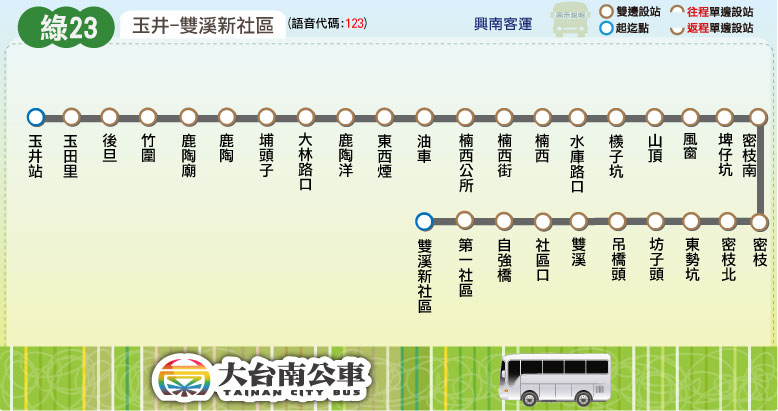
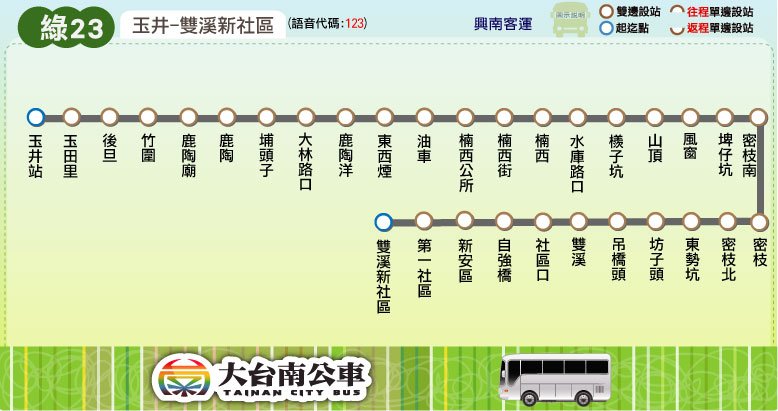
更新時刻表：黃1、黃6、黃12、黃14-1；新增站點：綠23

diff --git a/route/fare_and_time/yellow_12.js b/route/fare_and_time/yellow_12.js
@@ -1,11 +1,11 @@
 yellow_12_interval_name = ["白河","河東","虎子墓","木屐寮","仙草埔","關子嶺"];
-yellow_12_interval_stop = [
-["白河站","念佛會","凹底"], // 白河
-["畚箕湖","河東","河東國小","潭墘"], // 河東
-["虎子墓(虎山里)","福顯宮"], // 虎子墓
-["木屐寮","白河水庫"], // 木屐寮
-["竹林寺","派出所","仙草埔","白河榮家","灰窯","羌子崙","粗坑"], // 仙草埔
-["寶泉橋","好漢坡","關子嶺"] // 關子嶺
+yellow_12_interval_stop = [ // 2015.12.03 checked
+["白河站","念佛會"], // 白河
+["凹底","畚箕湖","河東","河東國小"], // 河東
+["潭墘","虎子墓(虎山里)"], // 虎子墓
+["木屐寮"], // 木屐寮
+["白河水庫","竹林寺","派出所","仙草埔","白河榮家","灰窯","羌子崙"], // 仙草埔
+["粗坑","寶泉橋","好漢坡","關子嶺"] // 關子嶺
 ];
 yellow_12_fare = [
 [26],
@@ -21,5 +21,5 @@ yellow_12_fare = [
 yellow_12_main_stop_name = ["白河","河東國小","虎子墓<br />(虎山里)","仙草埔","關子嶺"];
 yellow_12_main_stop_time_consume = [0, 5, 10, 13, 20];
 yellow_12_important_stop = [0, 2, 4]; // 白河, 虎山里, 關子嶺
-yellow_12_time_go = [["06:55"],["07:10",['H']],["08:05"],["09:05"],["10:05"],["12:05"],["13:05"],["15:05"],["16:05"]];
-yellow_12_time_return = [["07:25"],["08:35"],["09:35"],["10:35"],["12:35"],["13:35"],["15:35"],["16:35"],["17:00",['H']]];
+yellow_12_time_go = [["06:55"],["07:10",['H']],["08:15"],["09:05"],["10:05"],["12:05"],["13:05"],["15:05"],["16:05"]];
+yellow_12_time_return = [["07:25"],["08:45"],["09:35"],["10:35"],["12:35"],["13:35"],["15:35"],["16:35"],["17:00",['H']]];

diff --git a/route/fare_and_time/yellow_14_1.js b/route/fare_and_time/yellow_14_1.js
@@ -1,24 +1,29 @@
-yellow_14_1_interval_name = ["白河","白河國中","甘宅","關帝廟","內角"];
+yellow_14_1_interval_name = ["白河","白河國中","三間厝","埤子頭","竹圍子","甘宅","關帝廟","內角"];
 yellow_14_1_interval_stop = [
-["白河站","白河分局","舊地政"], // 白河
-["白河國中"], // 白河國中
+["白河站","白河分局"], // 白河
+["舊地政","白河國中"], // 白河國中
+["三間厝"], // 三間厝
+["溪洲路口","埤子頭"], // 埤子頭
+["竹圍子","番子園"], // 竹圍子
 ["過溝仔","甘宅","埤角"], // 甘宅
 ["大厝","活動中心","關帝廟","大埔"], // 關帝廟
 ["內角"] // 內角
 ];
-yellow_14_1_stop_time_consume = [0,1,3,4,10,11,12,13,14,15,18];
 yellow_14_1_fare = [
 [26],
 [26,26],
 [26,26,26],
 [26,26,26,26],
-[30,26,26,26,26]
+[26,26,26,26,26],
+[27,26,26,26,26,26],
+[32,26,26,26,26,26,26],
+[39,33,31,28,26,26,26,26]
 ];
 // format = [time at the start stop] or
 // [time, other] or
 // [time, start_stop, end_stop, other]
-yellow_14_1_main_stop_name = ["白河","甘宅","關帝廟","內角"];
-yellow_14_1_main_stop_time_consume = [0, 10, 14, 18];
-yellow_14_1_important_stop = [0, 3]; // 白河, 內角
+yellow_14_1_main_stop_name = ["白河","三間厝","竹圍子","甘宅","關帝廟","內角"];
+yellow_14_1_main_stop_time_consume = [0, 5, 10, 15, 19, 23];
+yellow_14_1_important_stop = [0, 5]; // 白河, 內角
 yellow_14_1_time_go = [["07:50"],["10:50"],["15:30"]];
-yellow_14_1_time_return = [["08:10"],["11:10"],["15:50"]];
+yellow_14_1_time_return = [["08:15"],["11:15"],["15:55"]];

diff --git a/route/fare_and_time/yellow_6.js b/route/fare_and_time/yellow_6.js
@@ -25,5 +25,5 @@ yellow_6_fare = [
 yellow_6_main_stop_name = ["新營","菁寮","白沙屯","後壁火車站/<br />區公所(發車)"];
 yellow_6_main_stop_time_consume = [0, 20, 25, 40];
 yellow_6_important_stop = [0, 2, 3]; // 新營, 白沙屯, 後壁火車站
-yellow_6_time_go = [["06:00",0,2],["06:45",0,2],["08:40"],["11:00"],["13:05"],["15:20"],["17:40"]];
-yellow_6_time_return = [["06:25",2,0],["07:10",2,0],["09:25"],["11:45"],["13:50"],["16:05"],["18:30"]];
+yellow_6_time_go = [["05:55",0,2],["06:45",0,2],["08:40"],["11:00"],["13:05"],["15:20"],["17:40"]];
+yellow_6_time_return = [["06:20",2,0],["07:10",2,0],["09:25"],["11:45"],["13:50"],["16:05"],["18:30"]];

diff --git a/route/fare_and_time/green_23.js b/route/fare_and_time/green_23.js
@@ -5,9 +5,8 @@ green_23_interval_stop = [
 ["油車","楠西公所","楠西街","楠西","水庫路口"], // 楠西
 ["檨子坑","山頂","風窗","埤仔坑","密枝南","密枝","密枝北"], // 密枝
 ["東勢坑","坊子頭","雙溪","社區口"], // 雙溪
-["自強橋","第一社區","雙溪新社區"] // 雙溪新社區
+["自強橋","新安區","第一社區","雙溪新社區"] // 雙溪新社區
 ];
-green_23_stop_time_consume = [0,2,3,5,6,7,8,8,9,10,11,13,14,15,16,18,19,20,23,24,25,26,28,30,31,32,33,34,35];
 green_23_fare = [
 [26],
 [26,26],

diff --git a/hsr_shuttle/hsr_shuttle_h62.html b/hsr_shuttle/hsr_shuttle_h62.html
@@ -37,7 +37,7 @@
 		</div>\
 	</div>\
 </div>');
-	block_time_schedule('奇美醫院/桂田酒店','高鐵臺南站','<font color="blue">「一」</font>表示僅周一行駛；<font color="red">「五」</font>表示僅周五行駛');
+	block_time_schedule('奇美醫院/桂田酒店','高鐵臺南站','');
 	block_transfer(transfer_hsr_tainan_station + transfer_culture_center + transfer_chimei_hospital + transfer_yanhang);
 	block_copyright();
 </script>

diff --git a/hsr_shuttle/hsr_shuttle_h31.html b/hsr_shuttle/hsr_shuttle_h31.html
@@ -37,7 +37,7 @@
 		</div>\
 	</div>\
 </div>');
-	block_time_schedule('臺南市政府','高鐵臺南站','<font color="blue">「一」</font>表示僅周一行駛；<font color="red">「五」</font>表示僅周五行駛');
+	block_time_schedule('臺南市政府/原住民文化會館','高鐵臺南站','');
 	block_transfer(transfer_aboriginal_culture_center + transfer_hsr_tainan_station);
 	block_copyright();
 </script>
